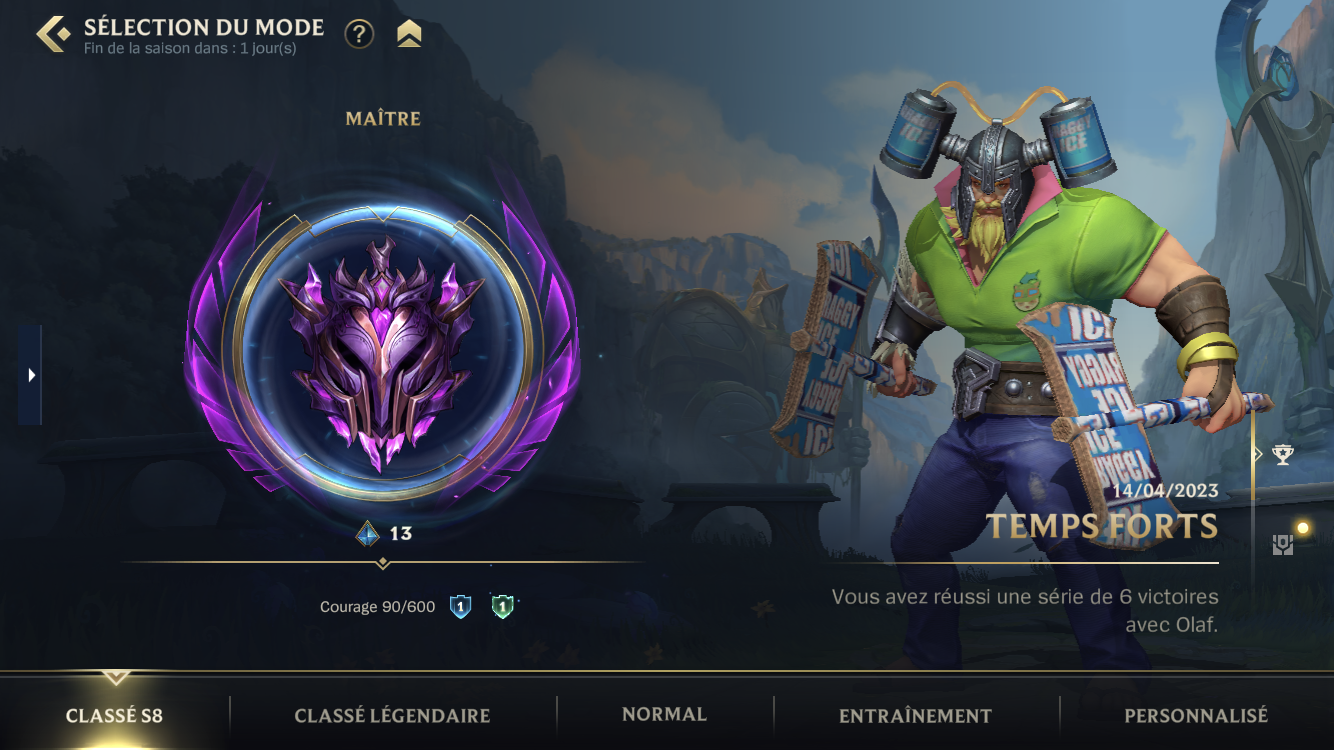
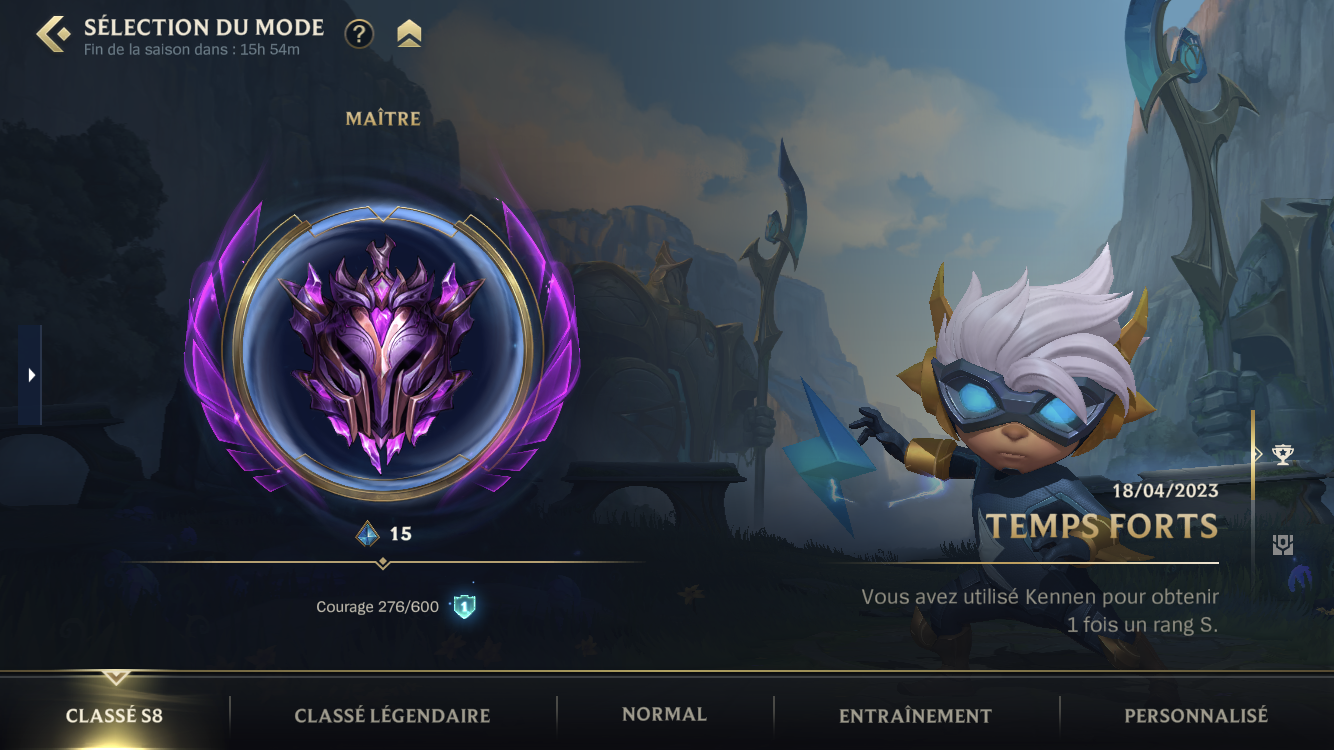
dev

diff --git a/autre/jeux/tel_perdant.md b/autre/jeux/tel_perdant.md
@@ -1,0 +1,13 @@
+---
+title: tel perdant
+layout: post
+---
+
+#### objectif
+
+deux joueurs s'accordent : le premier qui décroche son téléphone et entend l'autre dire "tél perdant" a perdu.
+
+#### règles
+
+- interdit d'appeler en masqué
+- autorisé d'utiliser le portable de quelqu'un d'autre

diff --git a/_posts/2023-04-18-un_sur_cinq.md b/_posts/2023-04-18-un_sur_cinq.md
@@ -39,7 +39,7 @@ passer master m'aura pris environ 1000 heures.
 
 ![uncinq1](/img/uncinq1.png)
 
-je finis la s8 avec 14 marques, soit la moitié du grandmaster. 
+je finis la s8 avec 15 marques, soit les trois quarts du grandmaster. 
 
 ![uncinq10](/img/uncinq10.png)
 

diff --git a/autre/jeux.md b/autre/jeux.md
@@ -3,4 +3,5 @@ title: jeux
 layout: post
 ---
 
+- [tel perdant](jeux/tel_perdant.md)
 - [uno magique](jeux/uno_magique.md)
